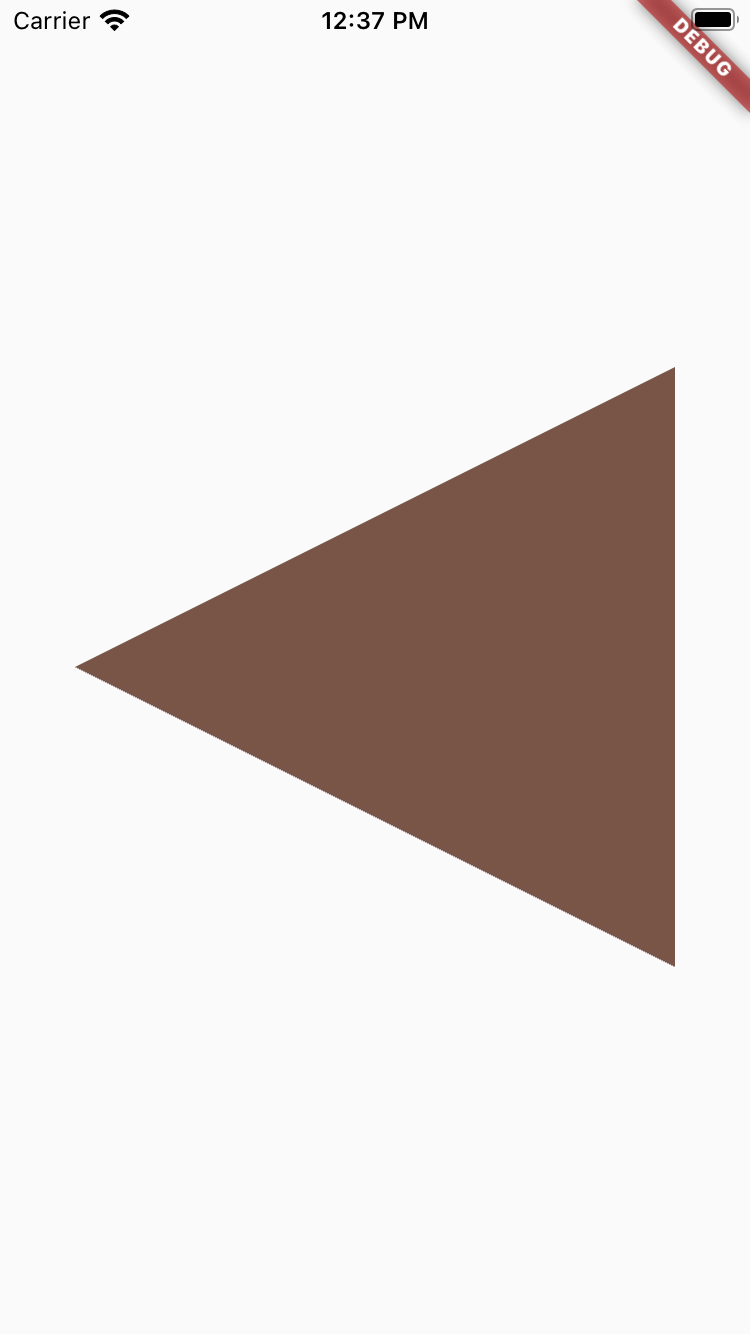
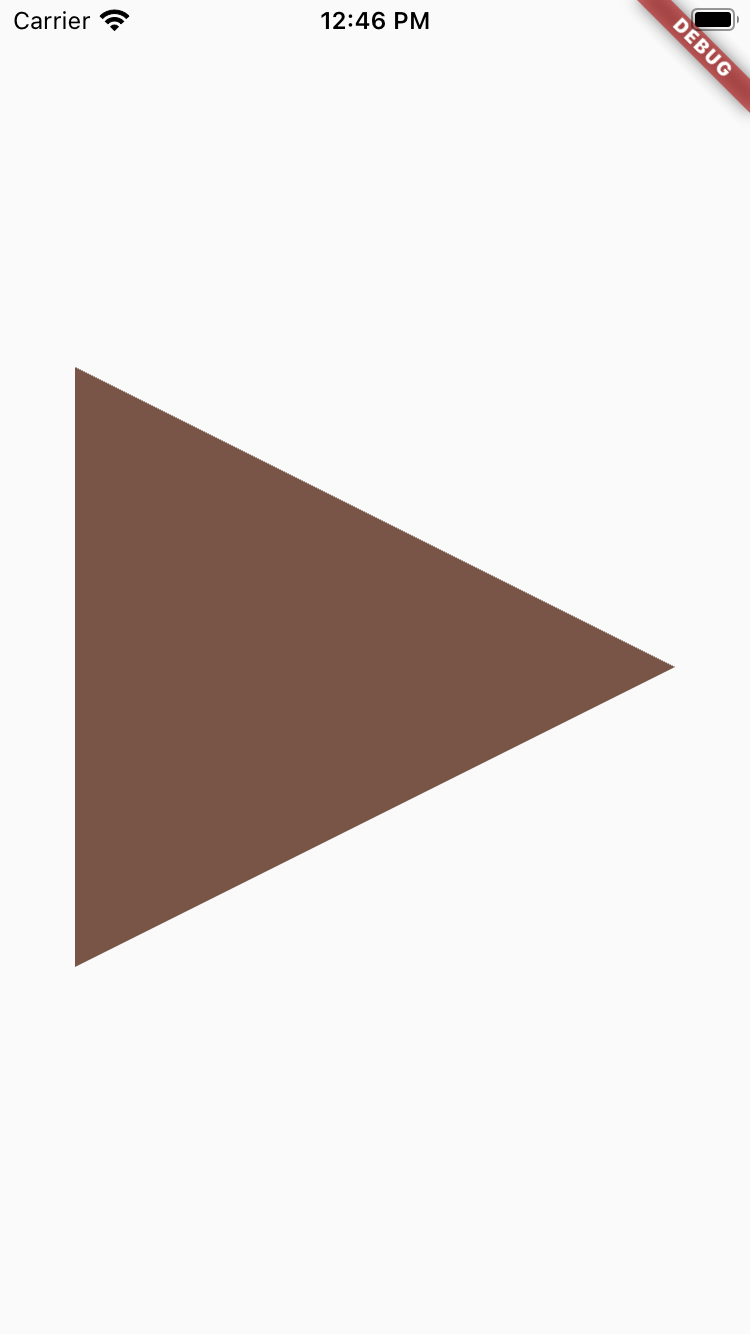
seventh commit

Changed region(s): [[0.092, 0.2766, 0.92, 0.7376], [0.4293, 0.0, 0.5827, 0.0307]]

diff --git a/lib/screens/clipperclass.dart b/lib/screens/clipperclass.dart
@@ -13,9 +13,10 @@ class MyClipper extends CustomClipper<Path>{
   Path getClip(Size size) {
 
    Path path= Path();
-  path.moveTo( 0,size.height/2);
-  path.lineTo(size.width, size.height);
-  path.lineTo(size.width, 0);
+   path.lineTo(0, 0);
+   path.lineTo(0, size.height);
+   path.lineTo(size.width, size.height/2);
+
    path.close();
    return path;
   }
